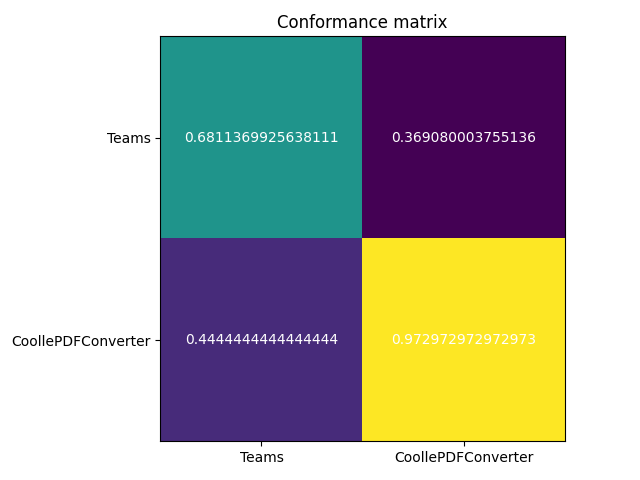
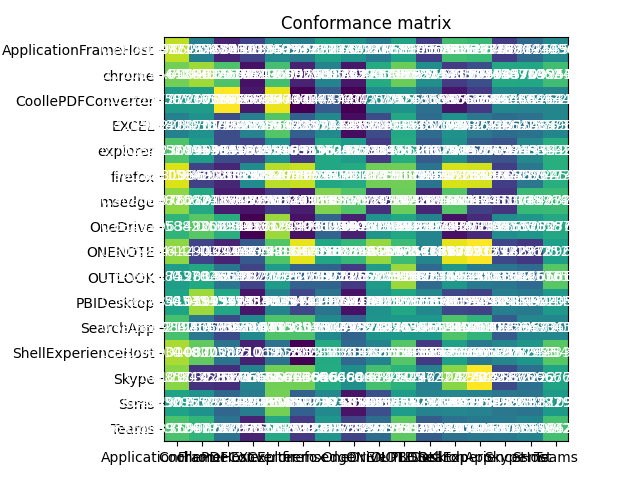
Further Processing, small changes. Started on HPC script

diff --git a/2. Iteration/Process Discovery and Conformance/script.py b/2. Iteration/Process Discovery and Conformance/script.py
@@ -9,6 +9,7 @@ import glob
 import os
 import matplotlib
 import matplotlib.pyplot as plt
+import math
 
 class Logs:
     def __init__(self, df, name):
@@ -49,11 +50,11 @@ def ProcessDiscoveryConformanceChecking(TrainEventlog, TestEventLog, DiscoveryAl
 
     # Get Training EventLog    
     if DiscoveryAlg == "IM":
-        net, im, fm = pm4py.discover_petri_net_inductive(TrainEventlog, noise_threshold=0.2)
+        net, im, fm = pm4py.discover_petri_net_inductive(TrainEventlog)
     elif DiscoveryAlg == "HM":
         net, im, fm = pm4py.discover_petri_net_heuristics(TrainEventlog, dependency_threshold=0.5)
     elif DiscoveryAlg == "IMF":
-        net, im, fm = pm4py.discover_petri_net_alpha(TrainEventlog)
+        net, im, fm = pm4py.discover_petri_net_inductive(TrainEventlog, noise_threshold=0.5)
     
     if ConformanceAlg == "token":
         conformance = pm4py.fitness_token_based_replay(TestEventLog, net, im, fm)
@@ -62,11 +63,12 @@ def ProcessDiscoveryConformanceChecking(TrainEventlog, TestEventLog, DiscoveryAl
         conformance = pm4py.conformance.fitness_alignments(TestEventLog, net, im, fm)
         conformance = conformance['averageFitness']
     
+    
     return conformance
 
 
-train, test = ReadTestAndTrainingLog() 
 
+#ProcessDiscoveryConformanceChecking(train[0].df, test[0].df, "IM", "token")
 
 
 #Alg 2: By having the train and test lists containing all the train and test logs, and discovery and
@@ -74,14 +76,12 @@ train, test = ReadTestAndTrainingLog()
 #and apply the first algorithm 1 on the logs (codes A.1, A.3). The returned value will be a
 #dictionary containing the conformance fitness value among the train models and the test
 #logs
-def Performance(TrainingLogList, TestingLogList):
-    discovery = "IM"
-    conformance = "alignments"
+def Performance(TrainingLogList, TestingLogList, discovery, conformance):
 
     performance = {}
 
     for count, logTraining in enumerate(TrainingLogList):
-        print("We are now at logTranining file number: " + str(count))
+        print("Training log: " + str(count+1/(len(TrainingLogList)+1)*100) + "% done")
         performance[logTraining.name] = {}
         for logTesting in TestingLogList:
             performance[logTraining.name][logTesting.name] = ProcessDiscoveryConformanceChecking(logTraining.df, logTesting.df, discovery, conformance)
@@ -89,21 +89,41 @@ def Performance(TrainingLogList, TestingLogList):
     return performance
 
 
-# performance = Performance(train[:2], test[:2])
-performance = {'Teams': {'Teams': 0.6811369925638111, 'CoollePDFConverter': 0.4444444444444444}, 'CoollePDFConverter': {'Teams': 0.369080003755136, 'CoollePDFConverter': 0.972972972972973}}
-print(performance)
+#performance = Performance(train, test)
+#performance = {'Teams': {'Teams': 0.6811369925638111, 'CoollePDFConverter': 0.4444444444444444}, 'CoollePDFConverter': {'Teams': 0.369080003755136, 'CoollePDFConverter': 0.972972972972973}}
+#print(performance)
 
 
-def save_dict(dictionary):
-	df = pd.DataFrame(dictionary)
+def save_dict(dictionary, discAlg, confAlg):
+    df = pd.DataFrame()
+    # For loop that iterate through the dictionary
+    # Uses keys as column and names and inner keys as rows.
+    # The values are added to the dataframe
+    print(dictionary)
+    for key in dictionary.keys():
+        for inner_key in dictionary[key].keys():
+            df.loc[key, inner_key] = dictionary[key][inner_key]
     
-	df.to_csv('output_all.csv', index=False)
+    # For each column in df, get max index and value
+    max_index = df.idxmax(axis=1)
+    # Save df to csv with index
+    df.to_csv('output_' + str(discAlg) + '_'+ (confAlg)+ '.csv', index=True)
+    
 
-	# Maximum value from each column
-	max_values_df = pd.DataFrame(df.apply(max)).transpose()
-	max_values_df.to_csv('max.csv', index=False)
+def CombineAll():
+    train, test = ReadTestAndTrainingLog()
+    DiscAlgs = ["IMF"]
+    ConfAlgs = ["alignments"]
+    for discAlg in DiscAlgs:
+        for confAlg in ConfAlgs:
+            
+            performance = Performance(train, test, discAlg, confAlg)
+            save_dict(performance, discAlg, confAlg)
+            
+    
+CombineAll()
 
-save_dict(performance)
+
 
 # Alg 3: Recommendation Algorithm. 
 def RecommendationAlg(MinedModelList, LogForRecommendation, K, Conformance):
@@ -117,39 +137,36 @@ def RecommendationAlg(MinedModelList, LogForRecommendation, K, Conformance):
 
     return listOfBestConformance
 
-def CreateMatrix(dictionary, includeHeatmap = False):
-    """
-    Creates a matrix from a performance dictionary.
-    Optionally generates heatmap png using matplotlib
-    """
-    df = pd.DataFrame(dictionary)
+
+# def CreateMatrix(dictionary, includeHeatmap = False):
+    
+#    Creates a matrix from a performance dictionary.
+#    Optionally generates heatmap png using matplotlib
+    
+#    df = pd.DataFrame(dictionary)
 
     #Save df to csv
-    df.to_csv("conformance_matrix.csv", sep=",")
+#    df.to_csv("conformance_matrix.csv", sep=",")
 
-    if includeHeatmap:
-        #Inspiration: https://matplotlib.org/stable/gallery/images_contours_and_fields/image_annotated_heatmap.html
-        row_titles = df.columns.values.tolist()
-        col_titles = df.index.tolist()
-        data = df.values
+#    if includeHeatmap:
+#        #Inspiration: https://matplotlib.org/stable/gallery/images_contours_and_fields/image_annotated_heatmap.html
+#        row_titles = df.columns.values.tolist()
+#        col_titles = df.index.tolist()
+#        data = df.values
         
-        fig, ax = plt.subplots()
-        im = ax.imshow(data)
-        ax.set_yticks(np.arange(len(row_titles)), labels=row_titles)
-        ax.set_xticks(np.arange(len(col_titles)), labels=col_titles)
+#        fig, ax = plt.subplots()
+#        im = ax.imshow(data)
+#        ax.set_yticks(np.arange(len(row_titles)), labels=row_titles)
+#        ax.set_xticks(np.arange(len(col_titles)), labels=col_titles)
 
-        for i in range(len(row_titles)):
-            for j in range(len(col_titles)):
-                ax.text(j, i, data[i, j], ha="center", va="center", color="w")
+#        for i in range(len(row_titles)):
+#            for j in range(len(col_titles)):
+#                ax.text(j, i, math.round(data[i, j],2), ha="center", va="center", color="w")
                 
-        ax.set_title("Conformance matrix")
-        fig.tight_layout()
-        plt.savefig(fname="conformance_matrix_heatmap.png")
-        plt.show()
-
-
-
-CreateMatrix(performance, includeHeatmap=True)
+#        ax.set_title("Conformance matrix")
+#        fig.tight_layout()
+#        plt.savefig(fname="conformance_matrix_heatmap.png")
+#        plt.show() """
 
 
 
